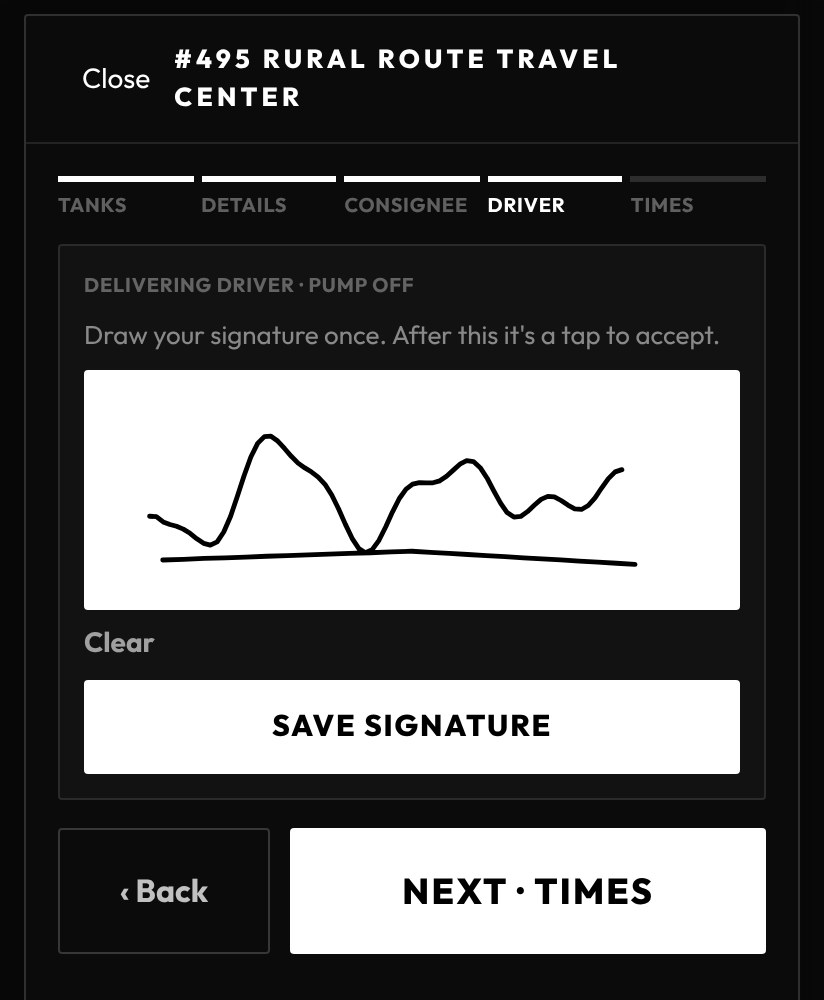
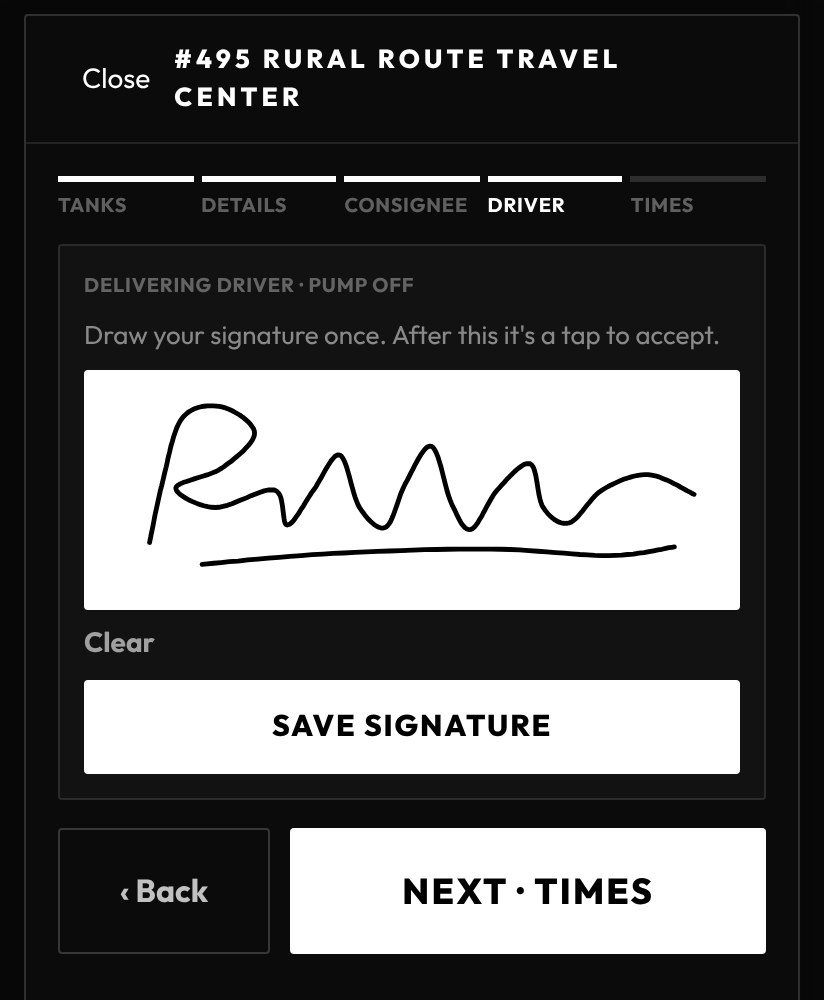
Marketing: say the camera capture replaces the separate scan app, not scanning; human-looking sample signature
Claude-Session: https://claude.ai/code/session_019oGuVGmEFsRozjSLbNz8JD

diff --git a/app/page.tsx b/app/page.tsx
@@ -8,7 +8,7 @@
 // load-plan calculator: an optimization layer that replaced nothing. That is
 // no longer the product. ProTankr now runs the whole trip (plan, load,
 // deliver, document) and sits between the TMS and the physical work. It
-// replaces the clipboard, the scan-and-upload app and the stand-alone forms,
+// replaces the clipboard, the separate scan app and the stand-alone forms,
 // while still working alongside the TMS and the ELD. The load planner is
 // now the first step of that story, not the whole story.
 //
@@ -26,6 +26,11 @@
 //  - The terminal still issues the BOL. ProTankr captures its numbers; it
 //    does not replace the terminal's document.
 //  - Don't name competitor products on the site; name the category.
+//  - Some paper still has to be captured from the camera (the marked-up BOL,
+//    receipts, scale tickets, meter tickets). The claim is that ProTankr
+//    replaces the SEPARATE or third-party scan app and scanning step: the
+//    phone camera captures it inside the trip and files it with the record.
+//    Never say "no scanning" or "nothing to photograph".
 
 import Link from "next/link";
 import SiteHeader from "./marketing/SiteHeader";
@@ -93,8 +98,8 @@ const REPLACES = [
     now: "The terminal still issues the BOL. ProTankr captures its numbers per product at the rack, then builds the Product Transfer Document with times, tank readings and signatures.",
   },
   {
-    was: "Scan-and-upload apps",
-    now: "No photographing paper at the end of the day. The record is built while the trip happens, so there is nothing left to scan, crop and send.",
+    was: "Third-party scan apps and a separate scanning step",
+    now: "Snap the marked-up BOL, a receipt or a scale ticket with your phone's own camera, inside the trip. Each photo files with the stop, delivery or record it belongs to, so the backup is captured as you go and the story is already assembled.",
   },
   {
     was: "Stand-alone electronic forms",
@@ -156,7 +161,7 @@ export default function Home() {
           </p>
           <p className="hero-sub">
             Works alongside your TMS and your ELD. It replaces the
-            clipboard, the scan app and the forms in between.
+            clipboard, the separate scan app and the forms in between.
           </p>
           <div className="hero-actions">
             <Link href="/get-the-app" className="btn-primary">
@@ -388,8 +393,8 @@ export default function Home() {
             </p>
             <p className="tms-line tms-line-sub">
               It sits beside the systems you already run and does not ask
-              you to replace them. Where it can replace a clipboard, a scan
-              app or a form, it does.
+              you to replace them. Where it can replace a clipboard, a
+              separate scan app or a form, it does.
             </p>
           </div>
         </div>

diff --git a/app/for-fleets/page.tsx b/app/for-fleets/page.tsx
@@ -36,7 +36,7 @@ const OUTCOMES = [
   {
     tag: "Records",
     title: "Paperwork that builds itself.",
-    body: "Every trip produces its own Product Transfer Document: BOL numbers by compartment, times, delay reasons, tank readings, miles and signatures. Nothing to scan, upload or re-key.",
+    body: "Every trip produces its own Product Transfer Document: BOL numbers by compartment, times, delay reasons, tank readings, miles and signatures. Receipts, scale tickets and meter tickets are photographed in the app and filed with the record, so there is no separate scanning step and nothing to re-key.",
     stat: "See the paperwork →",
     href: "#paperwork",
   },
@@ -295,7 +295,7 @@ export default function ForFleetsPage() {
           </p>
           <p className="fleet-sub">
             It sits beside your TMS and your ELD instead of replacing them,
-            and it takes over the clipboards, scan apps and stand-alone
+            and it takes over the clipboards, separate scan apps and stand-alone
             forms that grew up around them.
           </p>
           <a href="#paperwork" className="fleet-cta">
@@ -333,9 +333,13 @@ export default function ForFleetsPage() {
               Every trip builds its own Product Transfer Document as the
               driver works: order and BOL numbers by compartment, arrival,
               begin and depart times, delay reasons, tank readings before
-              and after, miles, and signatures. There is no photo to
-              upload, no form link to remind drivers about, and nothing to
-              re-key into another system.
+              and after, miles, and signatures. Fuel receipts, scale tickets
+              and meter tickets are photographed with the driver&apos;s phone
+              camera in the same app and filed with the stop they belong
+              to, so the backup is captured as the work happens and tells
+              the story with the record. There is no second app to
+              upload from, no form link to remind drivers about, and
+              nothing to re-key into another system.
             </p>
             <p className="feature-body feature-body-muted">
               The terminal still issues the BOL; ProTankr captures its

diff --git a/app/for-drivers/page.tsx b/app/for-drivers/page.tsx
@@ -225,7 +225,8 @@ export default function ForDriversPage() {
             Whether you run company equipment or your own, ProTankr takes you
             from the load plan to the rack to the drop on one screen, and
             builds the Product Transfer Document, times and records from
-            what you already tapped. No scan app. No forms to chase.
+            what you already tapped. Snap receipts and tickets right in the
+            trip, so there is no separate scan app. No forms to chase.
           </p>
           <ul className="driver-checklist">
             {CHECKLIST.map(({ Icon, label }) => (
@@ -293,7 +294,10 @@ export default function ForDriversPage() {
             <p className="feature-body feature-body-muted">
               Fuel stops, delays and delivery details ride along in the same
               record, so your DROP report and mileage are never a
-              reconstruction at the end of the week.
+              reconstruction at the end of the week. Snap fuel receipts,
+              scale tickets and meter tickets with your phone&apos;s camera as
+              you go. Each photo files with the stop or record it belongs
+              to, so the backup is already attached.
             </p>
           </div>
           <div className="feature-visual">

diff --git a/app/about/page.tsx b/app/about/page.tsx
@@ -27,7 +27,7 @@ export default function AboutPage() {
               and builds the paperwork, the Product Transfer Document, times,
               miles and tank readings, from what the driver already did. It
               works alongside your TMS and your ELD and replaces the
-              clipboards, scan apps and stand-alone forms in between.
+              clipboards, separate scan apps and stand-alone forms in between.
             </p>
             <p>
               It started with the hardest number in the cab, so that is
